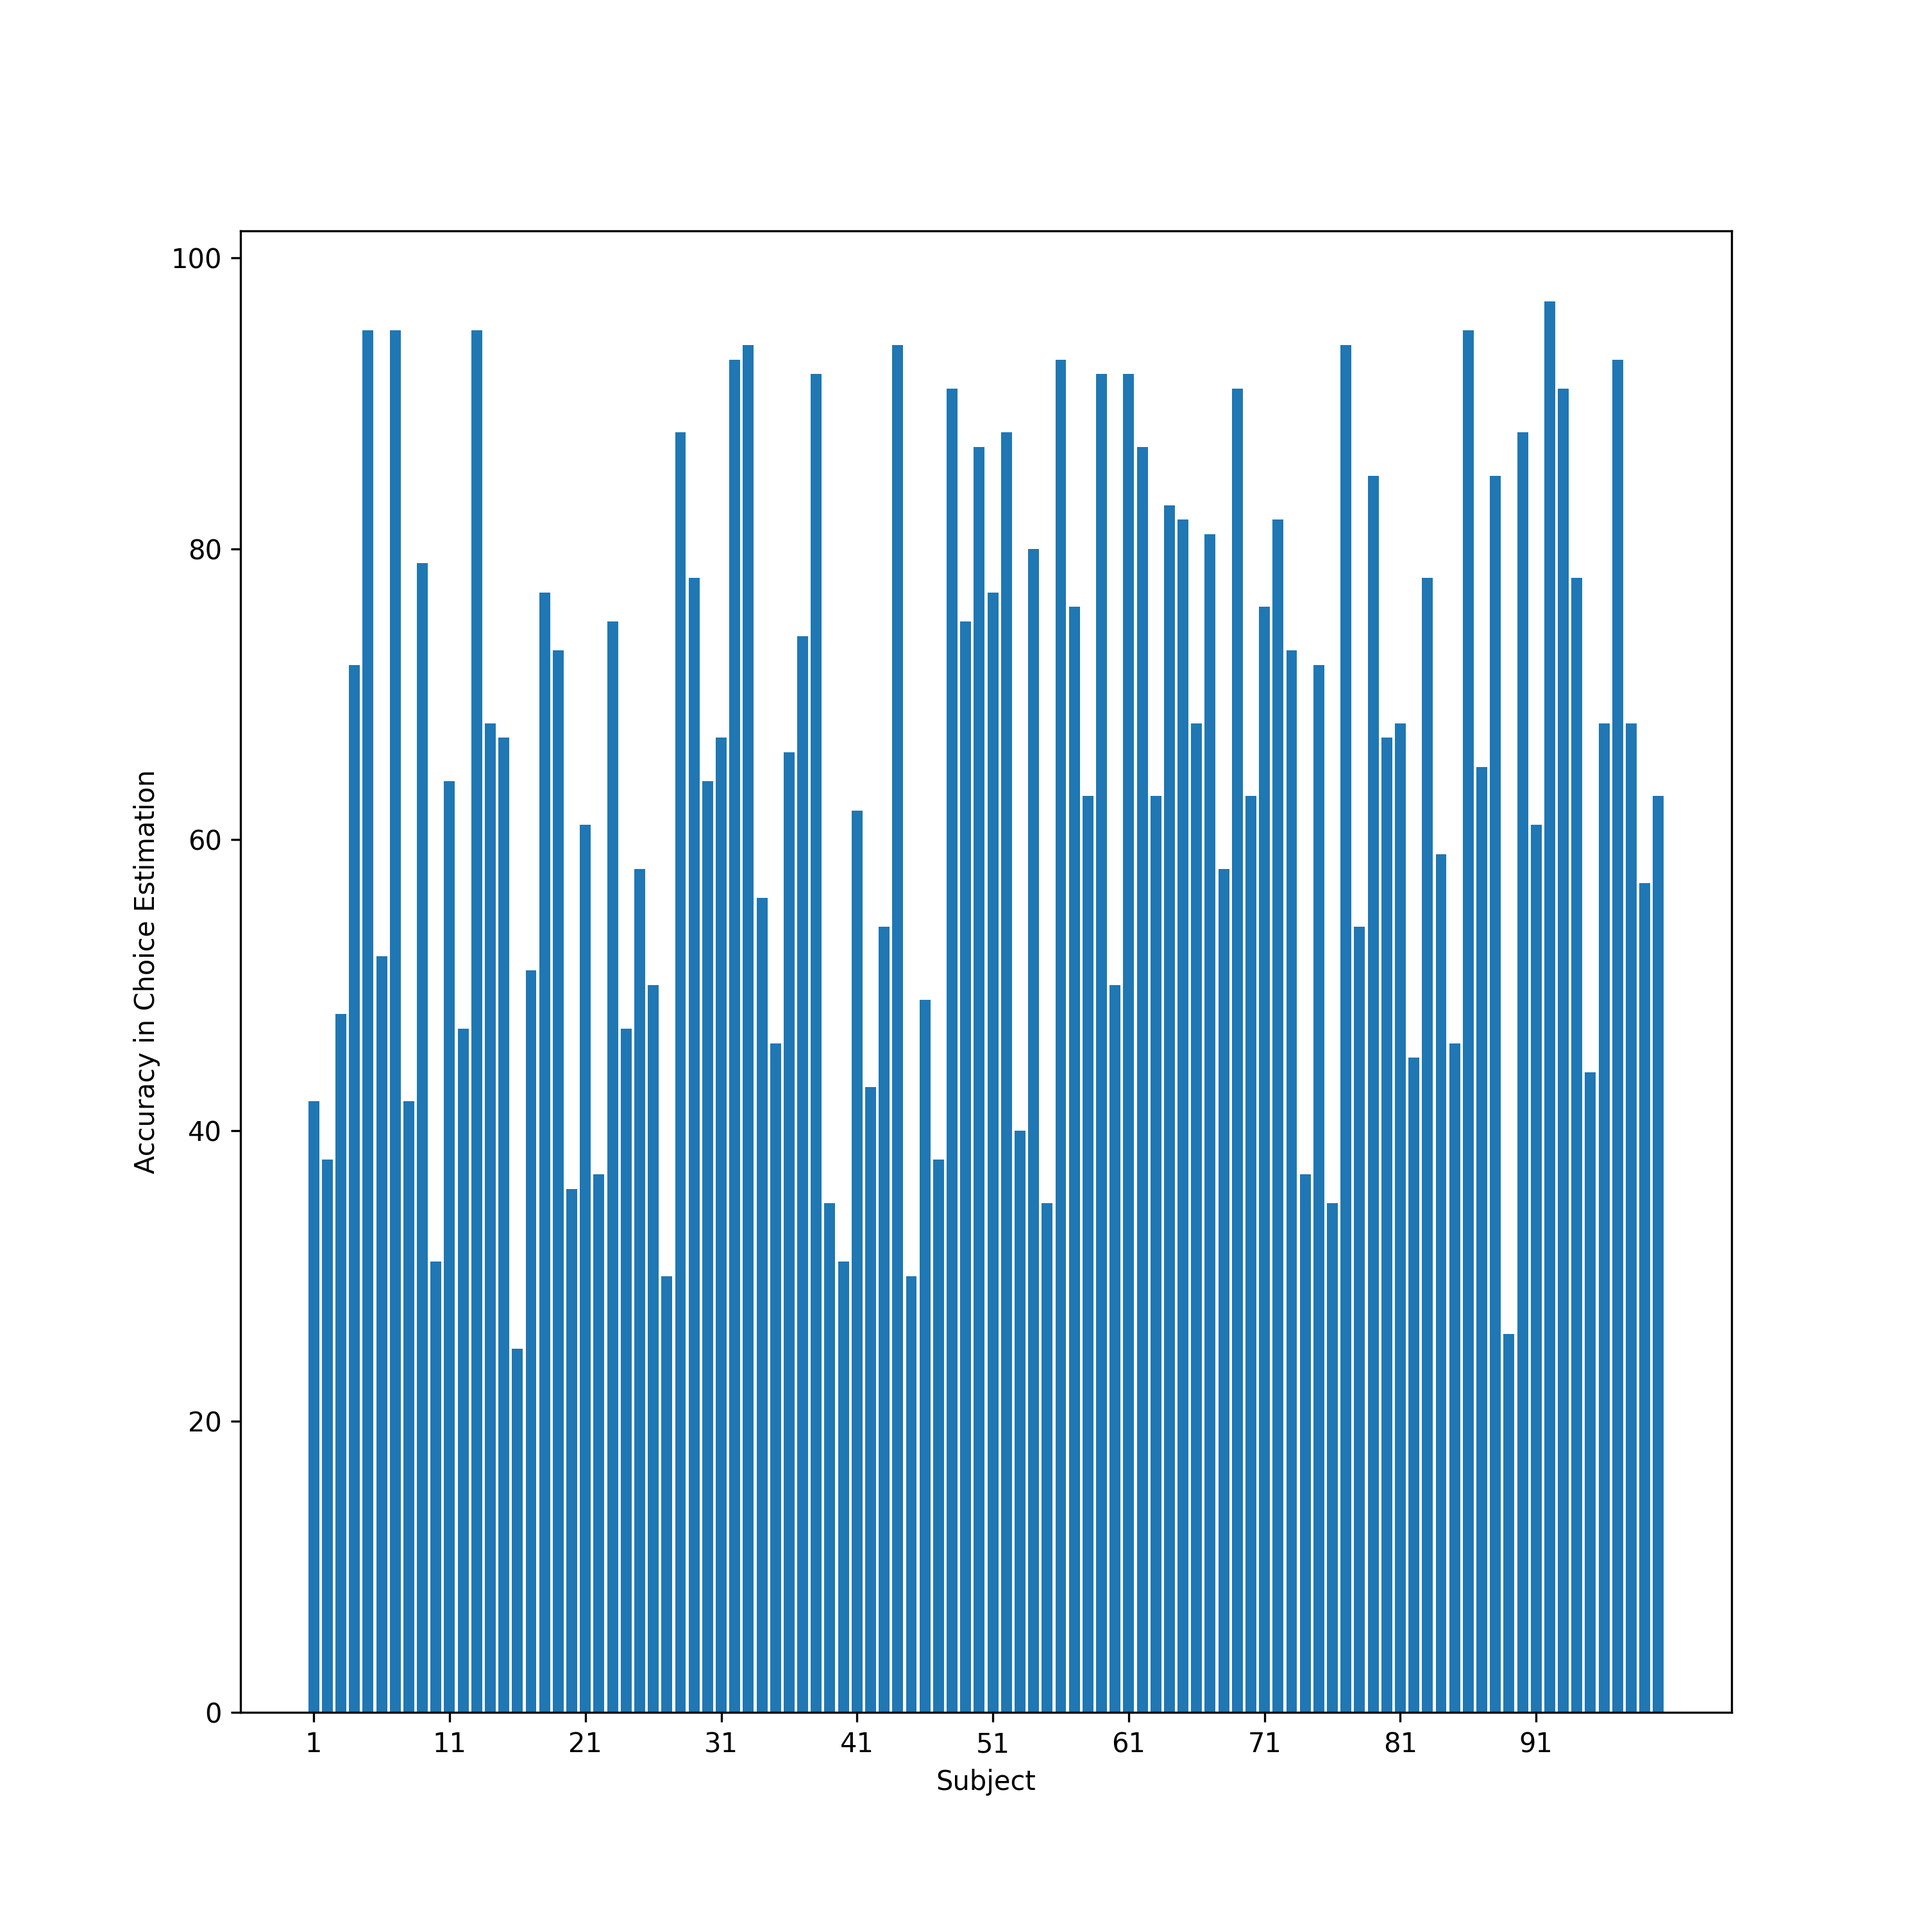
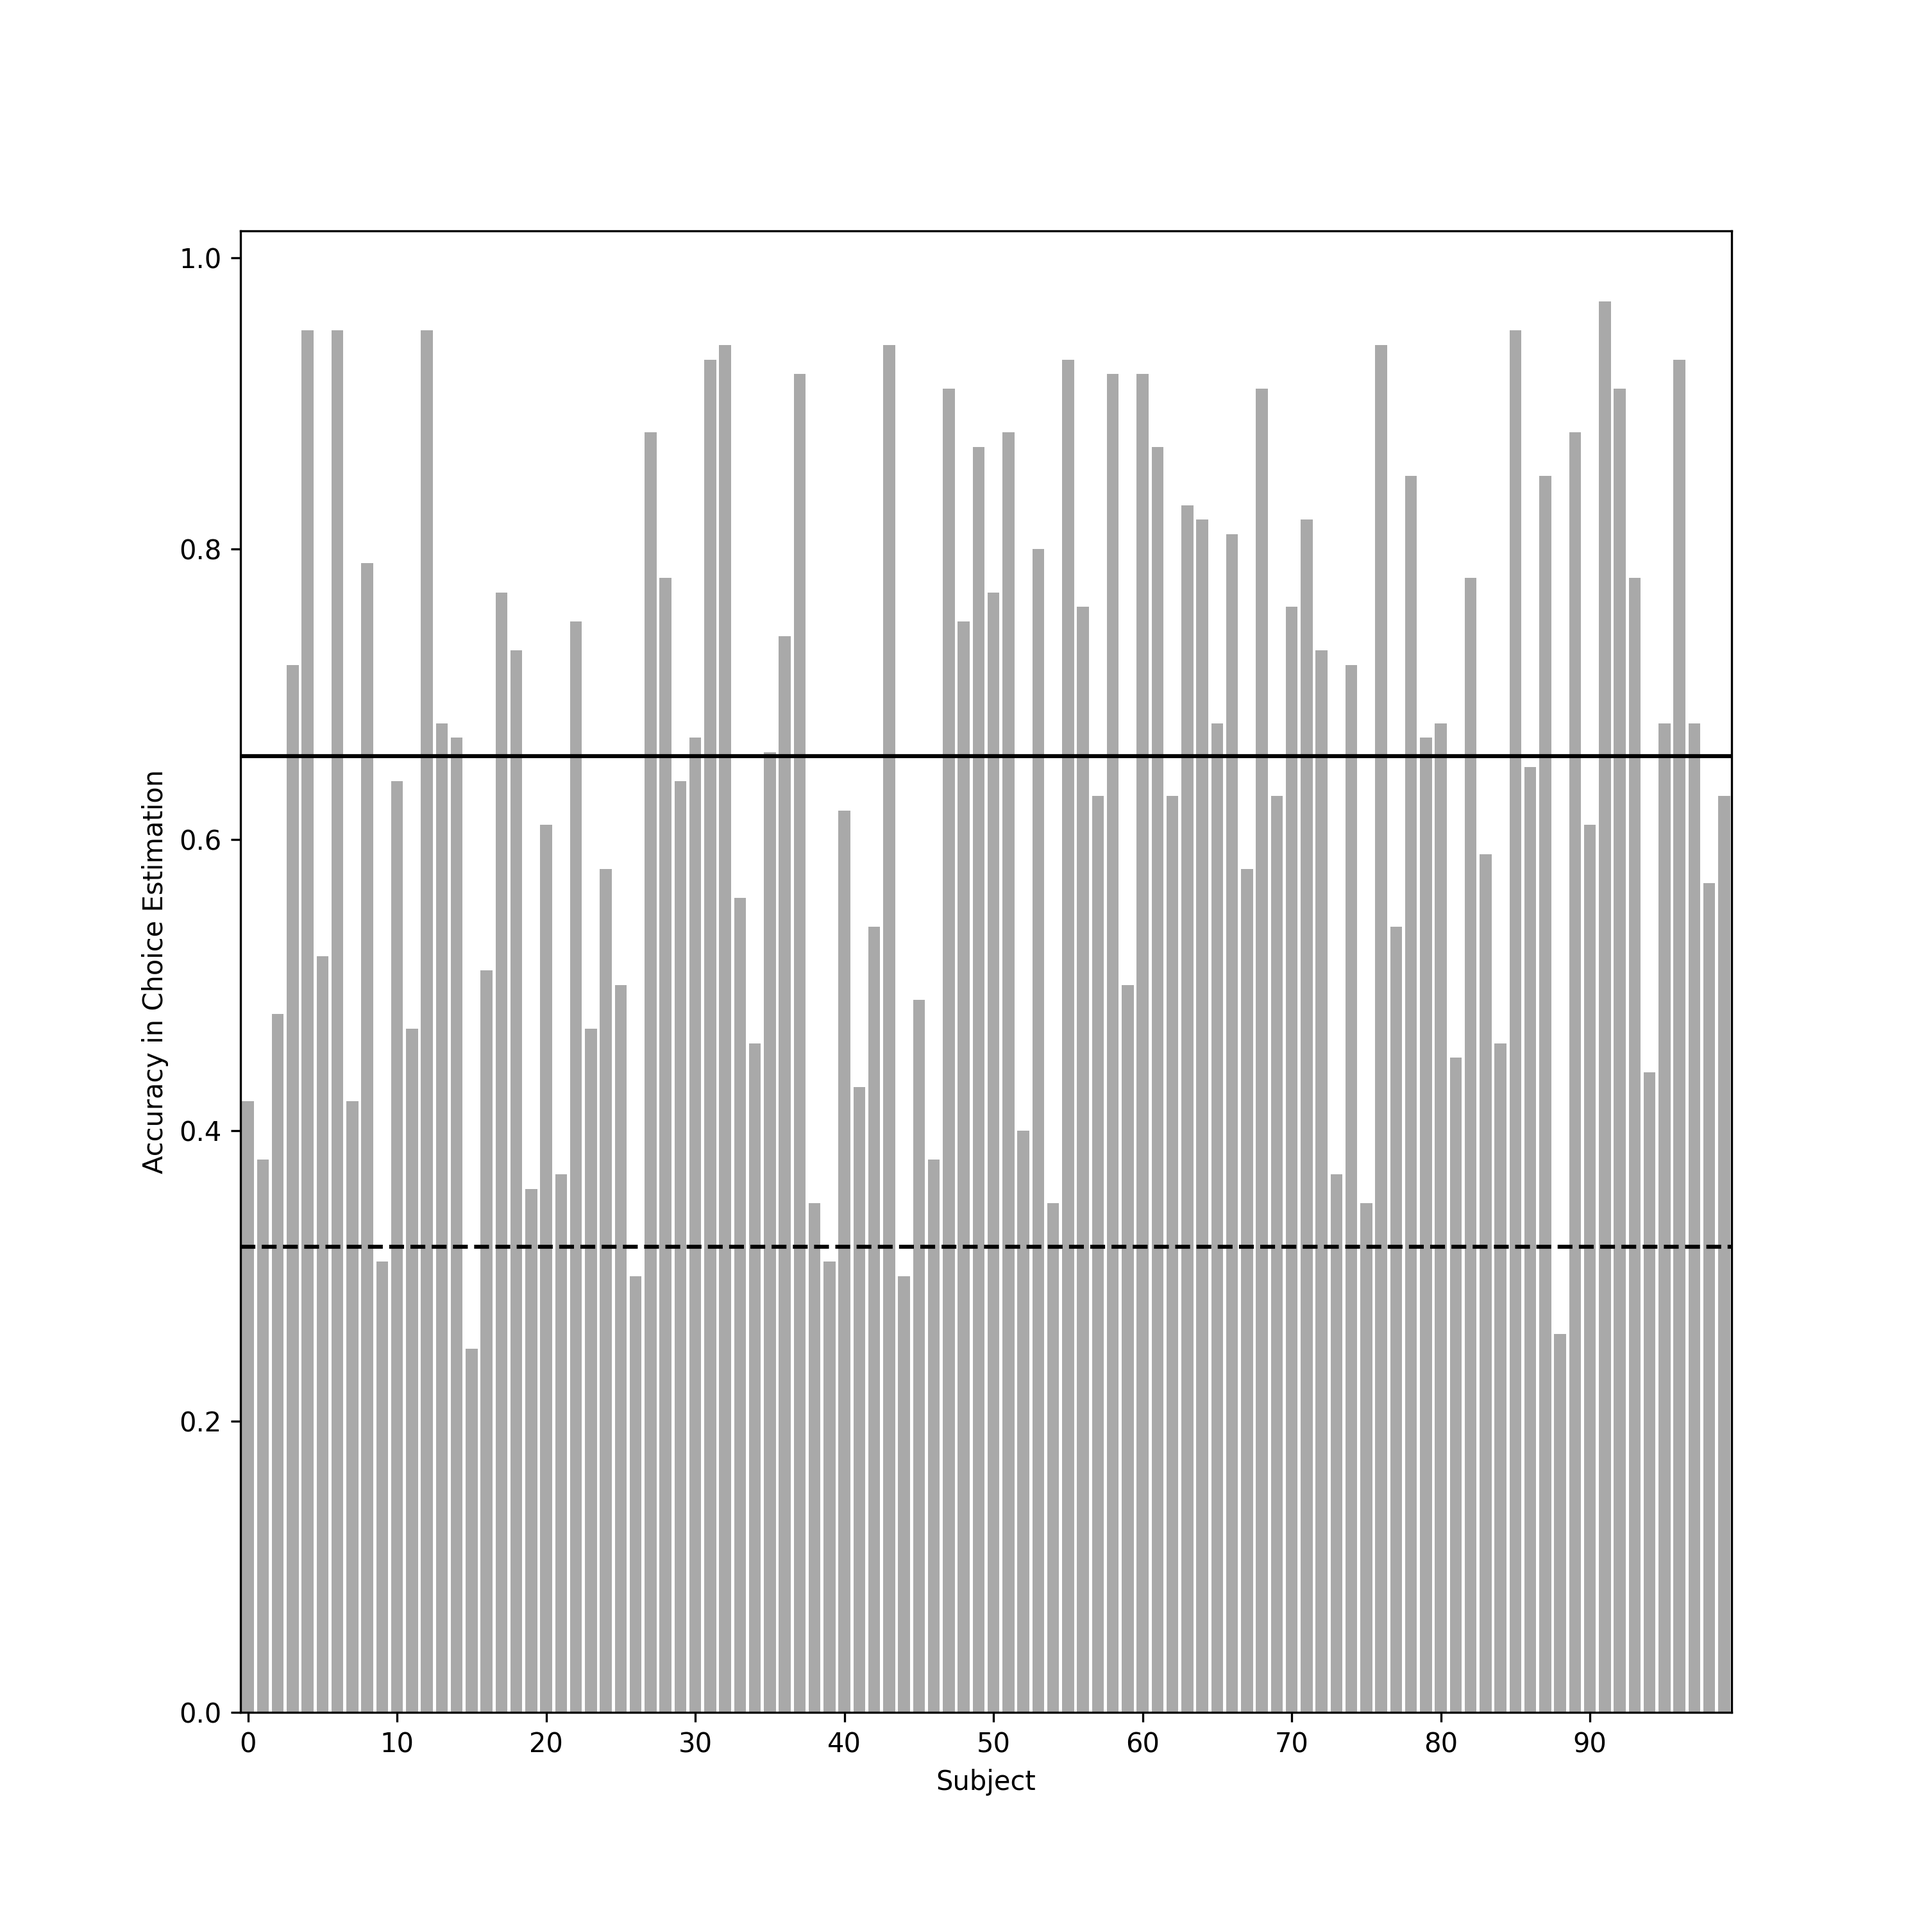
make plot nicer

diff --git a/src/recovery/plot_recovery.py b/src/recovery/plot_recovery.py
@@ -80,7 +80,7 @@ def preprocess_descriptive_adaquacy(true_parameter_data, subject_data):
         same_count = sum(row_df1 == row_df2)
 
         # Calculate accuracy
-        accuracy = same_count / len(x_columns) * 100
+        accuracy = same_count / len(x_columns)
         accuracies.append(accuracy)
 
     # Add the accuracy list as a new column to one of the DataFrames
@@ -104,21 +104,29 @@ def plot_descriptive_adequacy(df, save_path=None):
     fig, ax = plt.subplots(figsize=(10, 10))
 
     # Create bar plot with each subject (row) on the x-axis and the accuracy on the y-axis
-    ax.bar(df.index, df['Accuracy'])
+    ax.bar(df.index, df['Accuracy'], color='darkgrey')  # Set bars to dark grey
 
-    # add a line for 
+    # Add a line for average accuracy across subjects, set to black
+    ax.axhline(y=df['Accuracy'].mean(), linestyle='-', color='black')
 
+    # Add a dotted line for chance level at 25%, set to black
+    ax.axhline(y=chance_level(n=100, p=0.25, alpha=0.05), linestyle='--', color='black')
 
-    # Set x-ticks at regular intervals (e.g., every 10 subjects)
-    tick_interval = 10
-    ax.set_xticks(df.index[::tick_interval])  # Only label every nth subject
-    ax.set_xticklabels([i+1 for i in df.index[::tick_interval]])  # Adjust labels to match
+    # Set x-ticks to start at 0 and then at every 10th subject
+    ax.set_xticks(range(0, len(df.index), 10))
+    ax.set_xticklabels(range(0, len(df.index), 10))
+
     ax.set_xlabel("Subject")
     ax.set_ylabel("Accuracy in Choice Estimation")
+
+    # Limit x-axis to just cover the range of subjects, eliminating extra space on sides
+    ax.set_xlim(-0.5, len(df.index) - 0.5)
 
     # Save the plot if a save path is provided
     if save_path is not None:
         plt.savefig(save_path, dpi=300)
+
+    plt.show()  # Add this to display the plot when not saving
     
 
 
